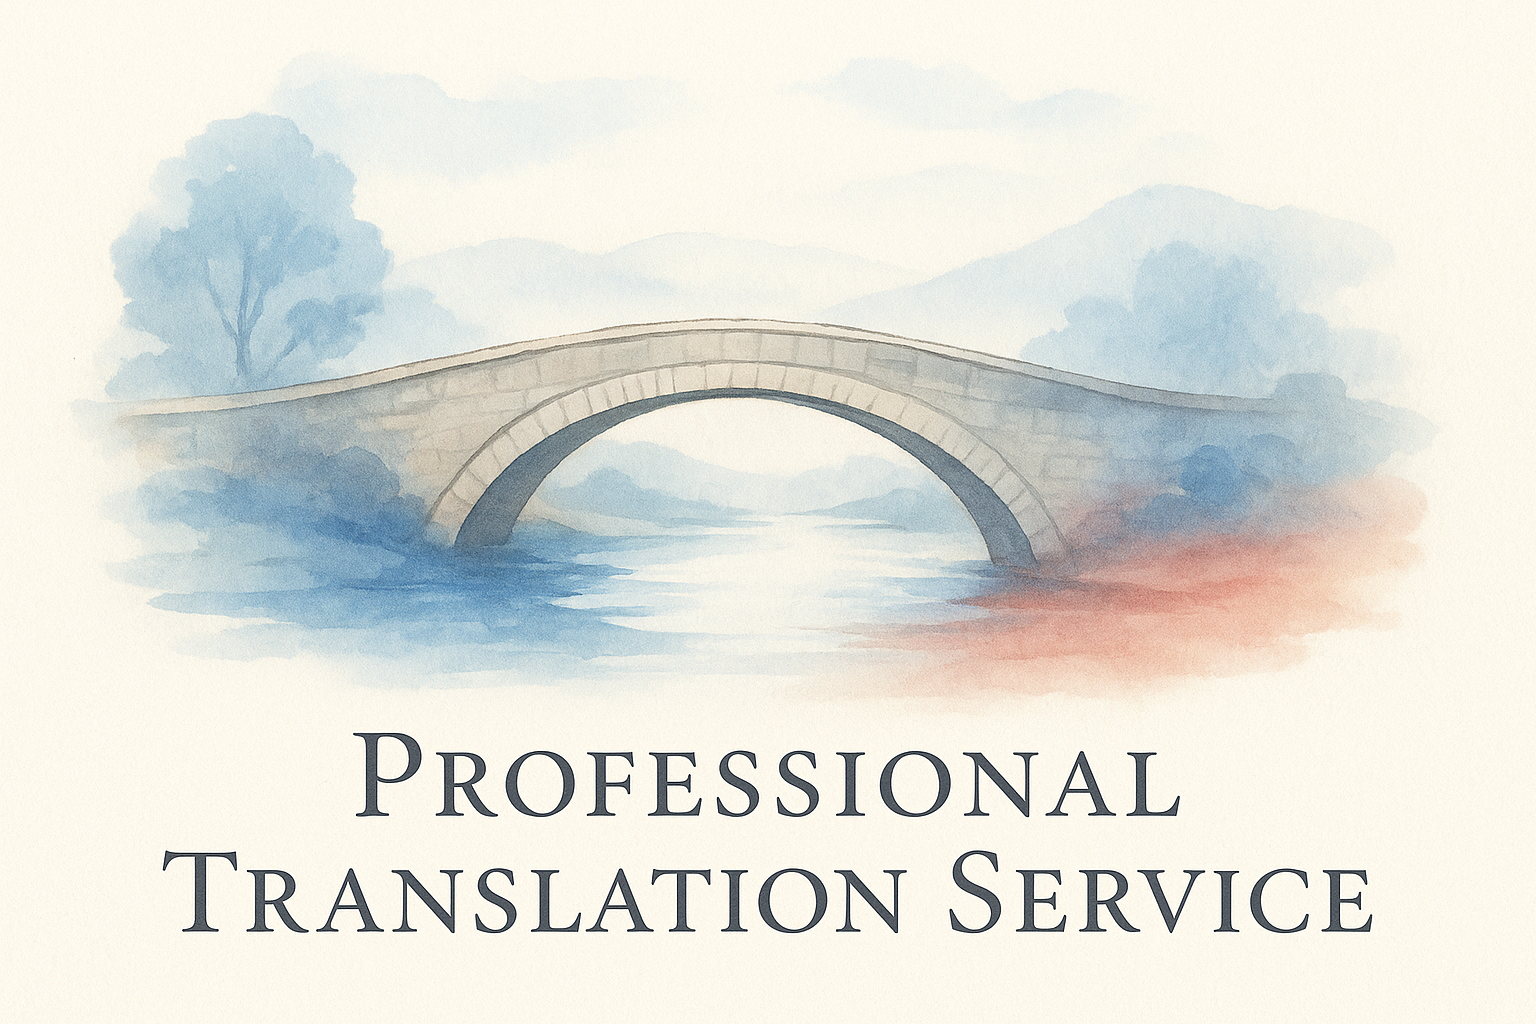
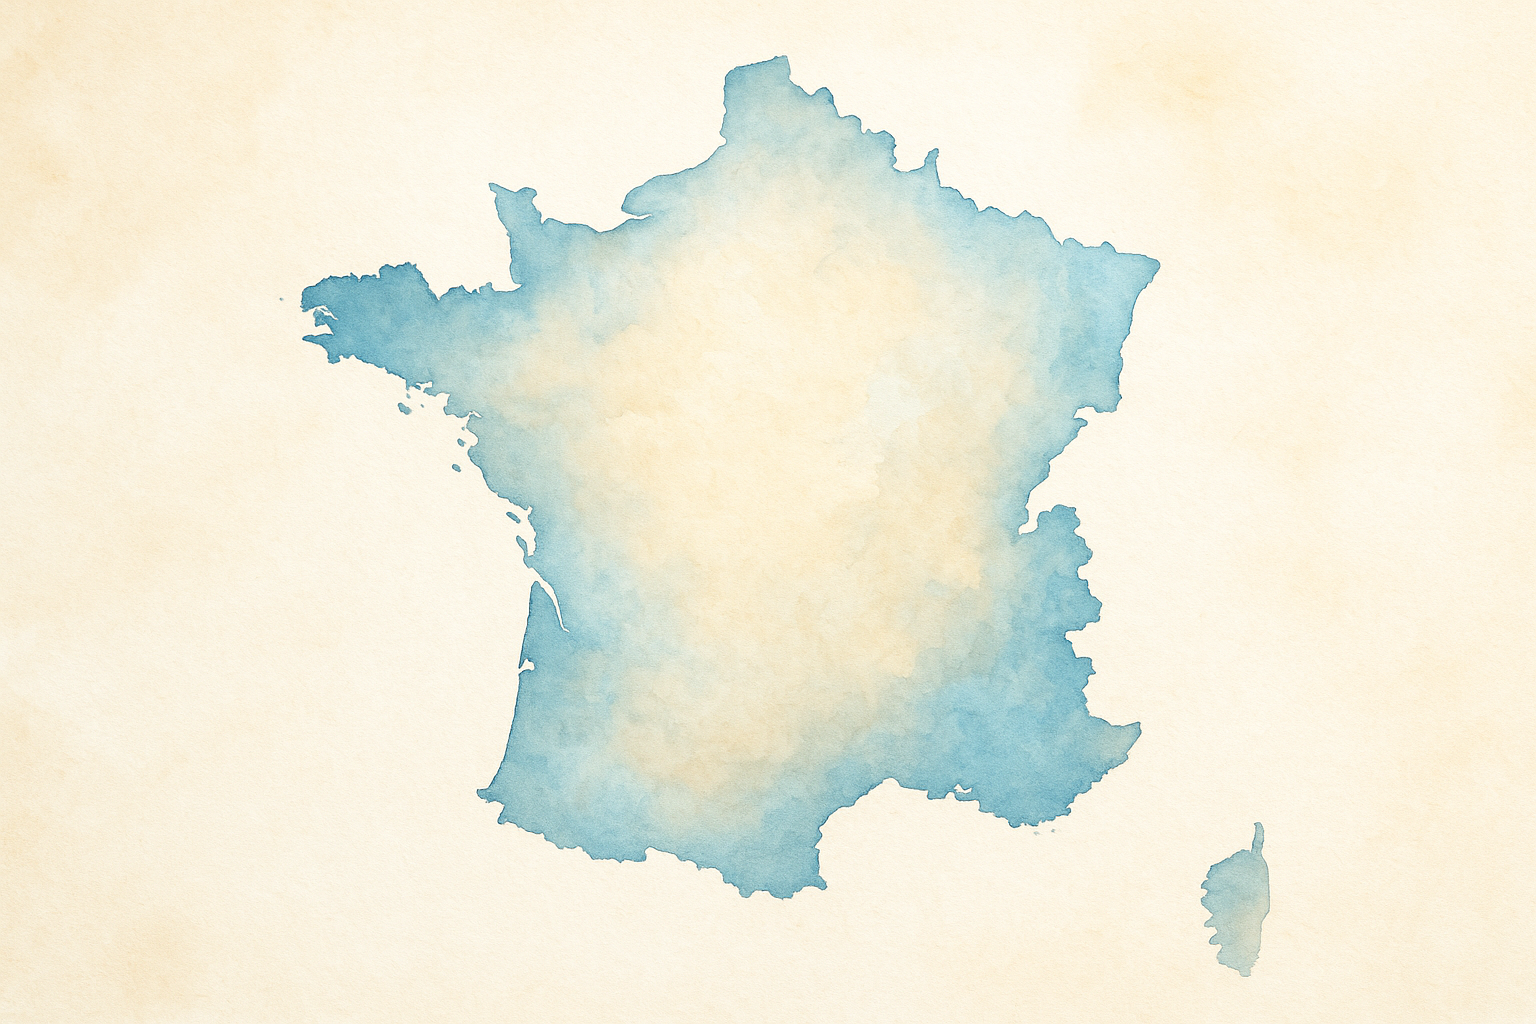
Website updates: French map hero, premium pricing fix, mailto in JS, CAD prominence
- Replaced hero image with French map illustration (carte de France)
- Premium pricing: changed from '-bash.40--bash.50 CAD/word' range to '-bash.40 CAD/word'
- Form now opens mailto link with pre-filled data on submit
- Updated pricing estimator label to match new premium rate
- Made CAD more prominent in pricing cards (bolder, navy color)

diff --git a/js/main.js b/js/main.js
@@ -94,7 +94,31 @@ document.addEventListener('DOMContentLoaded', () => {
 
       if (!isValid) return;
 
-      // Simulate submission (no backend yet)
+      // Build mailto link with form data
+      const nameVal = encodeURIComponent(name.value.trim());
+      const emailVal = encodeURIComponent(email.value.trim());
+      const docDescVal = encodeURIComponent(docDesc.value.trim());
+      const wordCountVal = document.getElementById('word-count').value.trim();
+      const serviceTypeVal = document.getElementById('service-type').value;
+      const messageVal = encodeURIComponent(document.getElementById('message').value.trim());
+
+      const serviceTypeLabel = serviceTypeVal === 'premium' ? 'Premium (Legal/Medical/Technical)' :
+                                serviceTypeVal === 'standard' ? 'Standard (General Content)' : 'Not specified';
+
+      const body = `Quote Request Details:%0D%0A%0D%0A
+Name: ${nameVal}%0D%0A
+Email: ${emailVal}%0D%0A
+Document Description: ${docDescVal}%0D%0A
+Estimated Word Count: ${wordCountVal || 'Not specified'}%0D%0A
+Service Type: ${serviceTypeLabel}%0D%0A
+Additional Notes: ${messageVal || 'None'}`;
+
+      const mailtoLink = `mailto:[email redacted]?subject=Quote%20Request%20from%20${nameVal}&body=${body}`;
+
+      // Open mailto as primary action
+      window.location.href = mailtoLink;
+
+      // Show success message as fallback
       const submitBtn = this.querySelector('button[type="submit"]');
       const originalText = submitBtn.textContent;
       submitBtn.textContent = 'Sending...';
@@ -160,7 +184,7 @@ document.addEventListener('DOMContentLoaded', () => {
         rateLabel = '$0.25/word';
       } else if (serviceType === 'premium') {
         rate = 0.40;
-        rateLabel = '$0.40–$0.50/word';
+        rateLabel = '$0.40/word';
       }
 
       // Look for or create an estimate display

diff --git a/css/styles.css b/css/styles.css
@@ -560,9 +560,11 @@ h1, h2, h3, h4, h5, h6 {
 }
 
 .currency {
-  font-size: 0.95rem;
-  color: var(--color-text-light);
+  font-size: 1rem;
+  color: var(--color-navy);
+  font-weight: 600;
   margin-top: 4px;
+  letter-spacing: 0.5px;
 }
 
 .pricing-features {

diff --git a/index.html b/index.html
@@ -171,7 +171,7 @@
             <h3 class="pricing-name">Premium</h3>
             <div class="pricing-price">
               <span class="price">$0.40</span>
-              <span class="currency">– $0.50 CAD / word</span>
+              <span class="currency">CAD / word</span>
             </div>
           </div>
           <ul class="pricing-features">